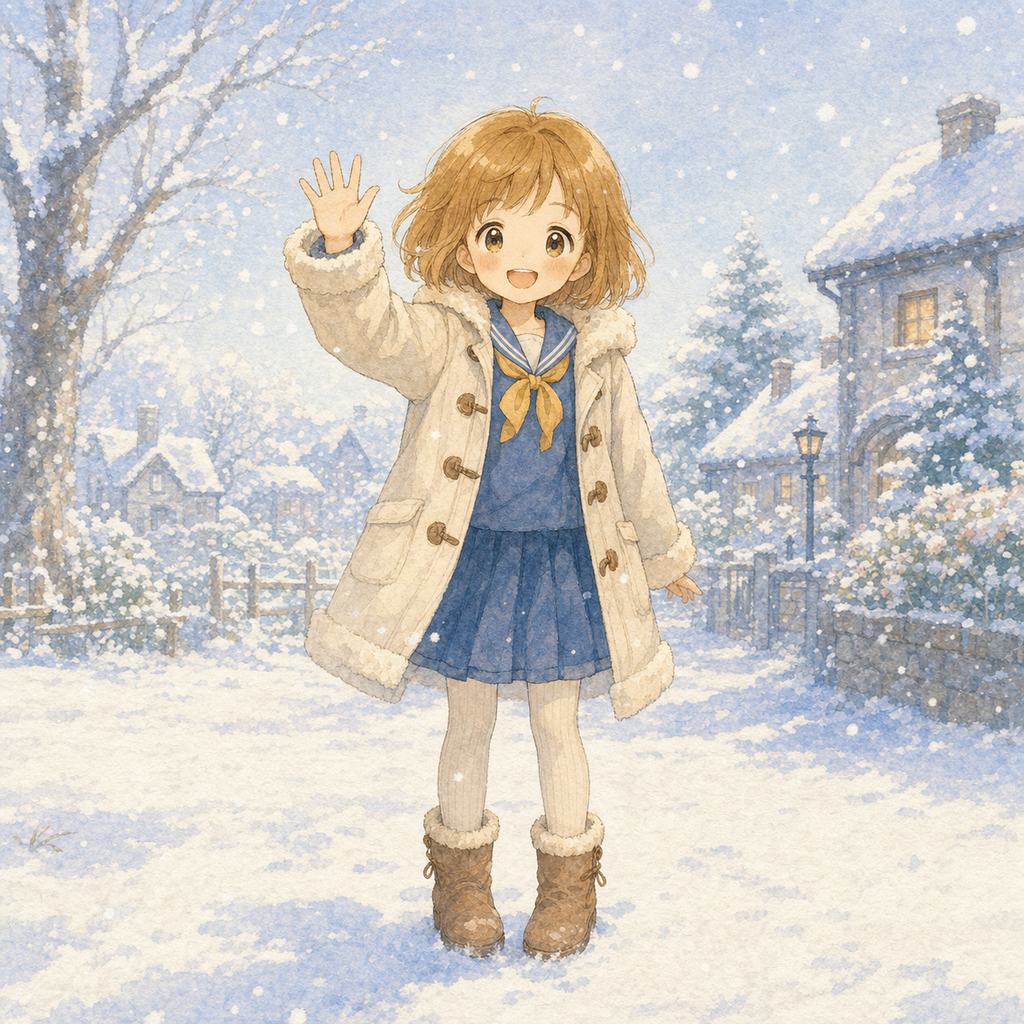
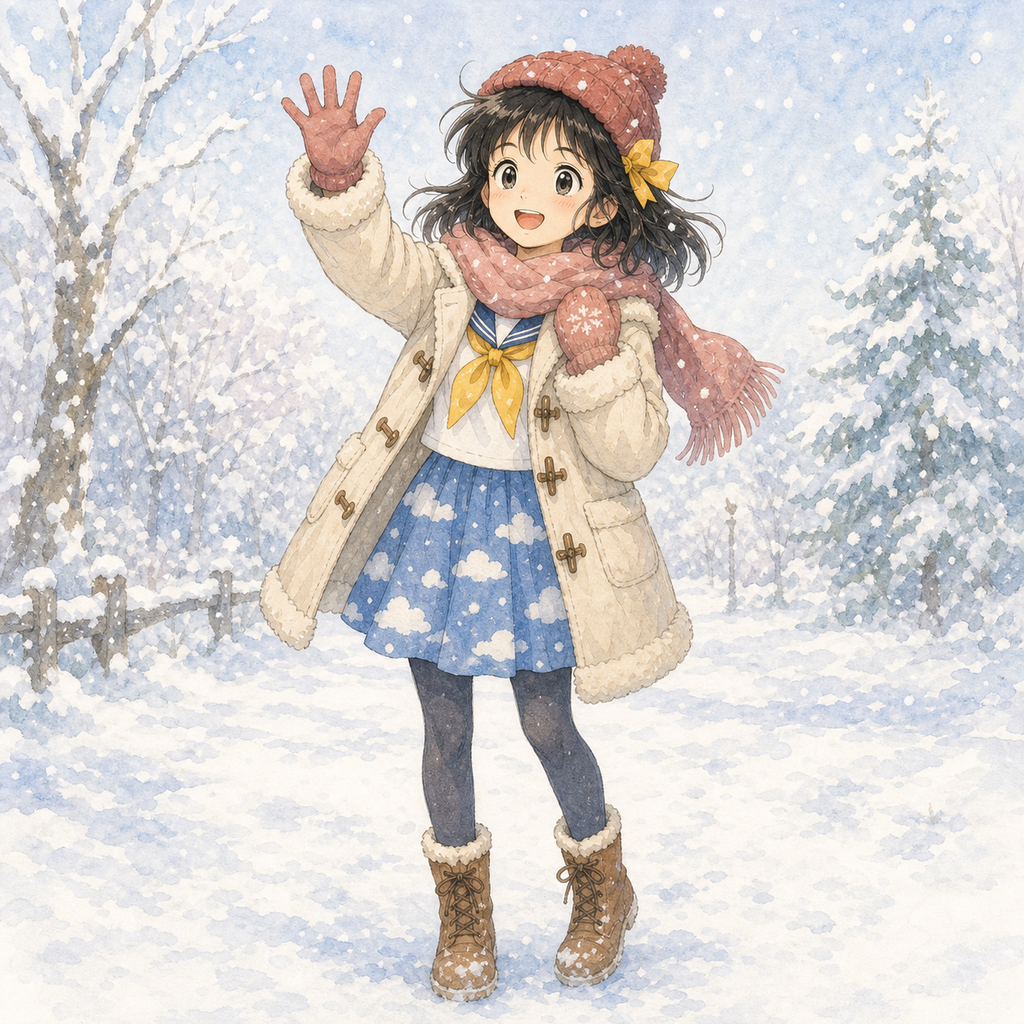
fix: canonical Sunny portraits + re-geocode on language change
Sunny composites
- Regenerated all 6 portraits via codex using the canonical
  sunny_<condition>.png art as the character reference (was
  today_<condition>.png, which is just a scene). Each new portrait
  preserves the canonical Sunny look — black hair, large anime eyes,
  white sailor top with yellow ribbon, cloud-pattern blue skirt,
  eye-contact + waving like she's greeting through the screen — and
  paints a full-bleed weather scene around her instead of layering a
  separate character on top of a separate backdrop.

City names follow language
- SearchClient gains `localizedName(coordinate:)` that calls
  MKReverseGeocodingRequest. MapKit returns place names in the device's
  current preferred language, so the result tracks AppleLanguages and
  flips with the user's pick in Settings.
- CityListReducer adds .regeocodeAllCities + .cityNameRefreshed.
  RootReducer compares incoming settings.language vs. a new
  CityListReducer.State.lastSeenLanguage and fires .regeocodeAllCities
  only when language actually flipped (not on every settings save).
- After each refreshed name, RootReducer re-broadcasts cities to the
  Today pager so the page header updates live alongside the labels.

Calendar
- FetchError now reads `(error as NSError).localizedDescription` so
  the empty-state cell shows a user-readable WeatherKit / network
  message instead of the Swift type name dump.

CitySearchViewController
- Wired onLanguageChange so the autocomplete + result rows refresh
[…]

diff --git a/Packages/SunriseFeatures/Sources/CityFeature/CityListReducer.swift b/Packages/SunriseFeatures/Sources/CityFeature/CityListReducer.swift
@@ -10,17 +10,25 @@ public struct CityListReducer: Sendable {
         public var selectedCityID: City.ID?
         public var search = CitySearchReducer.State()
         public var isPresentingSearch = false
+        /// Snapshot of the last `AppLanguage` we saw at language-change
+        /// time. RootReducer compares the incoming settings' language
+        /// against this to decide whether `.regeocodeAllCities` should
+        /// fire — only when the language actually flipped, not on every
+        /// settings save (units changes, etc.).
+        public var lastSeenLanguage: AppLanguage = .system
 
         public init(
             cities: [City] = [],
             selectedCityID: City.ID? = nil,
             search: CitySearchReducer.State = .init(),
-            isPresentingSearch: Bool = false
+            isPresentingSearch: Bool = false,
+            lastSeenLanguage: AppLanguage = .system
         ) {
             self.cities = cities
             self.selectedCityID = selectedCityID
             self.search = search
             self.isPresentingSearch = isPresentingSearch
+            self.lastSeenLanguage = lastSeenLanguage
         }
     }
 
@@ -34,6 +42,11 @@ public struct CityListReducer: Sendable {
         case deleteCity(City.ID)
         case moveCity(IndexSet, Int)
         case persistRequested
+        /// Re-resolve every saved city's display name in the device's
+        /// current preferred language. Triggered by RootReducer when the
+        /// user picks a new language in Settings.
+        case regeocodeAllCities
+        case cityNameRefreshed(City.ID, String)
         case delegate(Delegate)
 
         public enum Delegate: Sendable, Equatable {
@@ -42,6 +55,7 @@ public struct CityListReducer: Sendable {
     }
 
     @Dependency(\.persistenceClient) var persistence
+    @Dependency(\.searchClient) var searchClient
 
     public init() {}
 
@@ -105,6 +119,36 @@ public struct CityListReducer: Sendable {
                 return persistCities(state.cities)
 
             case .persistRequested:
+                return persistCities(state.cities)
+
+            case .regeocodeAllCities:
+                let cities = state.cities.filter { $0.name != "Current Location" }
+                guard !cities.isEmpty else { return .none }
+                let client = searchClient
+                return .run { send in
+                    for city in cities {
+                        if let updated = await client.localizedName(city.coordinate),
+                           !updated.isEmpty,
+                           updated != city.name {
+                            await send(.cityNameRefreshed(city.id, updated))
+                        }
+                    }
+                }
+
+            case let .cityNameRefreshed(id, name):
+                guard let index = state.cities.firstIndex(where: { $0.id == id }) else {
+                    return .none
+                }
+                let original = state.cities[index]
+                state.cities[index] = City(
+                    id: original.id,
+                    name: name,
+                    region: original.region,
+                    country: original.country,
+                    latitude: original.latitude,
+                    longitude: original.longitude,
+                    timeZoneIdentifier: original.timeZoneIdentifier
+                )
                 return persistCities(state.cities)
 
             case .delegate:

diff --git a/Packages/SunriseCore/Sources/SunriseCore/Clients/SearchClient.swift b/Packages/SunriseCore/Sources/SunriseCore/Clients/SearchClient.swift
@@ -27,6 +27,11 @@ public struct SearchClient: Sendable {
 
     /// Resolves a search result to a fully populated City (with coordinate).
     public var resolve: @Sendable (_ result: CitySearchResult) async throws -> City
+
+    /// Reverse-geocode a coordinate to a localised display name. Used to
+    /// re-fetch saved-city names when the user picks a new language —
+    /// MapKit serves names in the device's current preferred language.
+    public var localizedName: @Sendable (_ coordinate: CLLocationCoordinate2D) async -> String?
 }
 
 extension SearchClient: DependencyKey {
@@ -35,12 +40,14 @@ extension SearchClient: DependencyKey {
         let runner = MapKitSearchRunner()
         return SearchClient(
             autocomplete: { query in runner.autocomplete(query: query) },
-            resolve: { result in try await runner.resolve(result: result) }
+            resolve: { result in try await runner.resolve(result: result) },
+            localizedName: { coordinate in await runner.localizedName(coordinate: coordinate) }
         )
         #else
         return SearchClient(
             autocomplete: { _ in .never },
-            resolve: { _ in throw SearchClientError.unsupportedPlatform }
+            resolve: { _ in throw SearchClientError.unsupportedPlatform },
+            localizedName: { _ in nil }
         )
         #endif
     }
@@ -57,7 +64,8 @@ extension SearchClient: DependencyKey {
                 continuation.finish()
             }
         },
-        resolve: { _ in .preview }
+        resolve: { _ in .preview },
+        localizedName: { _ in nil }
     )
 
     public static let testValue = SearchClient()
@@ -139,6 +147,22 @@ private final class MapKitSearchRunner: NSObject, @unchecked Sendable {
         do {
             let mapItems = try await request.mapItems
             return mapItems.first?.timeZone
+        } catch {
+            return nil
+        }
+    }
+
+    /// Pull a localised place name for the requested coordinate via
+    /// MKReverseGeocodingRequest. MapKit returns names in the device's
+    /// current preferred language (read from `AppleLanguages`), so the
+    /// result tracks whichever language the user has just picked in
+    /// Settings. Returns nil on failure or when the response is empty.
+    func localizedName(coordinate: CLLocationCoordinate2D) async -> String? {
+        let location = CLLocation(latitude: coordinate.latitude, longitude: coordinate.longitude)
+        guard let request = MKReverseGeocodingRequest(location: location) else { return nil }
+        do {
+            let mapItems = try await request.mapItems
+            return mapItems.first?.name
         } catch {
             return nil
         }

diff --git a/Packages/SunriseFeatures/Sources/RootFeature/RootReducer.swift b/Packages/SunriseFeatures/Sources/RootFeature/RootReducer.swift
@@ -95,6 +95,15 @@ public struct RootReducer: Sendable {
                     selectedID: state.cityList.selectedCityID
                 )))
 
+            case .cityList(.cityNameRefreshed):
+                // A city's display name just flipped (re-geocoded under the
+                // new language); re-broadcast the updated cities list so
+                // the Today pager picks the new label up too.
+                return .send(.today(.citiesUpdated(
+                    cities: state.cityList.cities,
+                    selectedID: state.cityList.selectedCityID
+                )))
+
             case let .today(.selectCity(id)):
                 state.cityList.selectedCityID = id
                 if let page = state.today.pages[id: id] {
@@ -127,10 +136,18 @@ public struct RootReducer: Sendable {
             case let .profile(.delegate(.settingsChanged(settings))):
                 // Settings sub-pages mutate via ProfileReducer; mirror into
                 // Today and Forecast so the units / theme update everywhere.
-                return .merge(
+                // Also re-geocode every saved city so the displayed name
+                // tracks the new language.
+                let languageChanged = settings.language != state.cityList.lastSeenLanguage
+                state.cityList.lastSeenLanguage = settings.language
+                var effects: [Effect<Action>] = [
                     .send(.today(.settingsLoaded(settings))),
                     .send(.forecast(.settingsUpdated(settings)))
-                )
+                ]
+                if languageChanged {
+                    effects.append(.send(.cityList(.regeocodeAllCities)))
+                }
+                return .merge(effects)
 
             case .today, .forecast, .character, .profile, .cityList:
                 return .none

diff --git a/Packages/SunriseFeatures/Sources/ForecastFeature/CalendarReducer.swift b/Packages/SunriseFeatures/Sources/ForecastFeature/CalendarReducer.swift
@@ -48,7 +48,11 @@ public struct CalendarReducer: Sendable {
     public struct FetchError: Error, Equatable, Sendable {
         public let message: String
         public init(_ error: any Error) {
-            self.message = String(describing: error)
+            // Localized description carries the WeatherKit / network
+            // failure text users can act on (e.g. "Unable to authenticate
+            // — check signing"); String(describing:) just dumps the type
+            // name and shows nothing meaningful in the empty-state cell.
+            self.message = (error as NSError).localizedDescription
         }
     }
 

diff --git a/Sunrise/Features/Cities/CitySearchViewController.swift b/Sunrise/Features/Cities/CitySearchViewController.swift
@@ -70,6 +70,7 @@ final class CitySearchViewController: UIViewController {
         ])
 
         observeState { [weak self] in self?.render() }
+        onLanguageChange { [weak self] in self?.render() }
         searchBar.becomeFirstResponder()
     }
 
